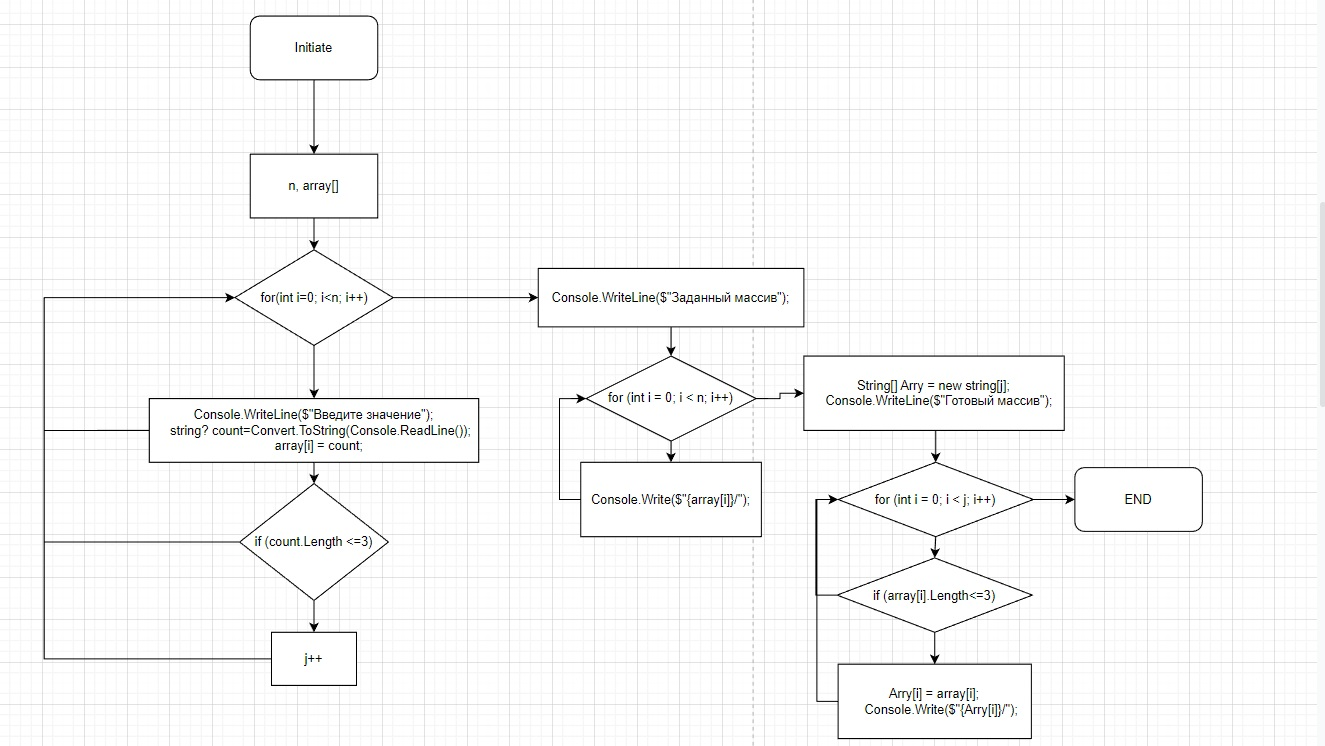
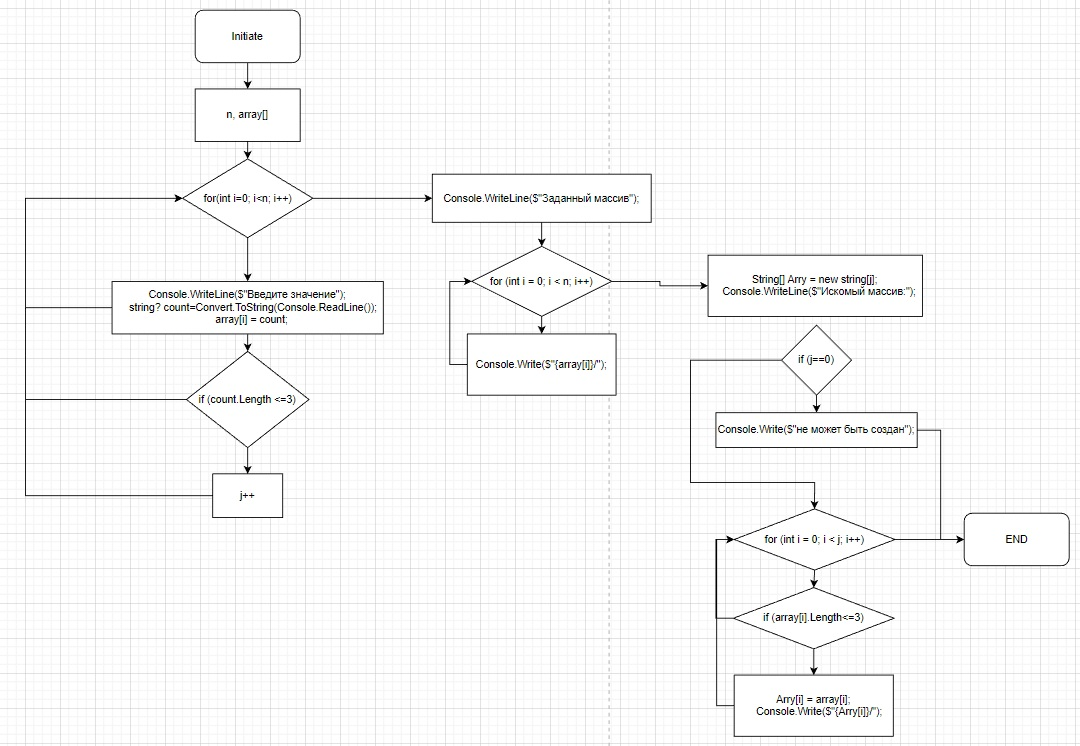
блок схема +return

diff --git a/Program.cs b/Program.cs
@@ -27,6 +27,7 @@ if (count.Length <=3)
 if (j==0)
    {
     Console.Write($"не может быть создан");
+    return;
    }
 for (int i = 0; i < j; i++)
 {
